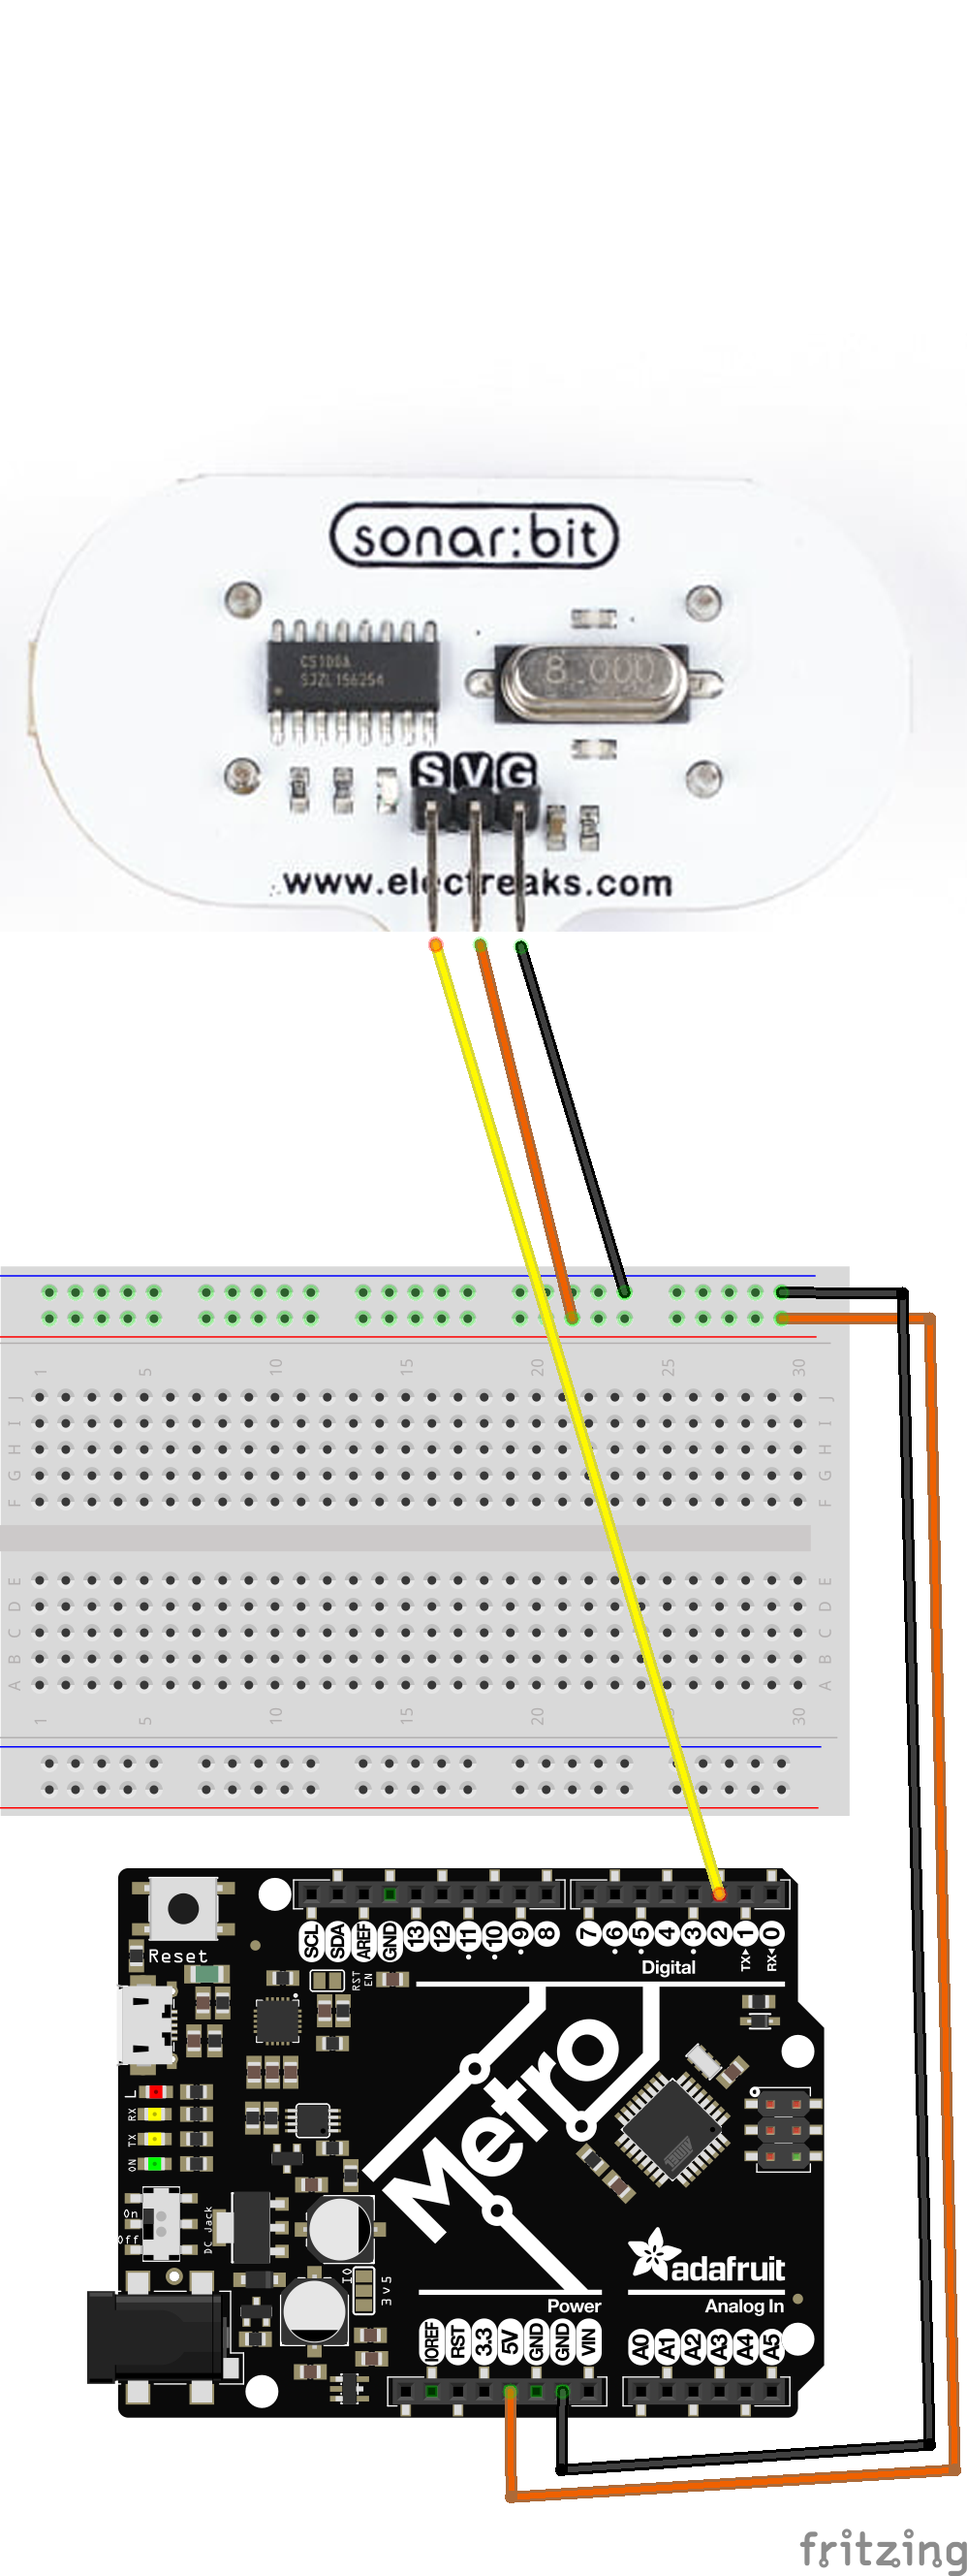
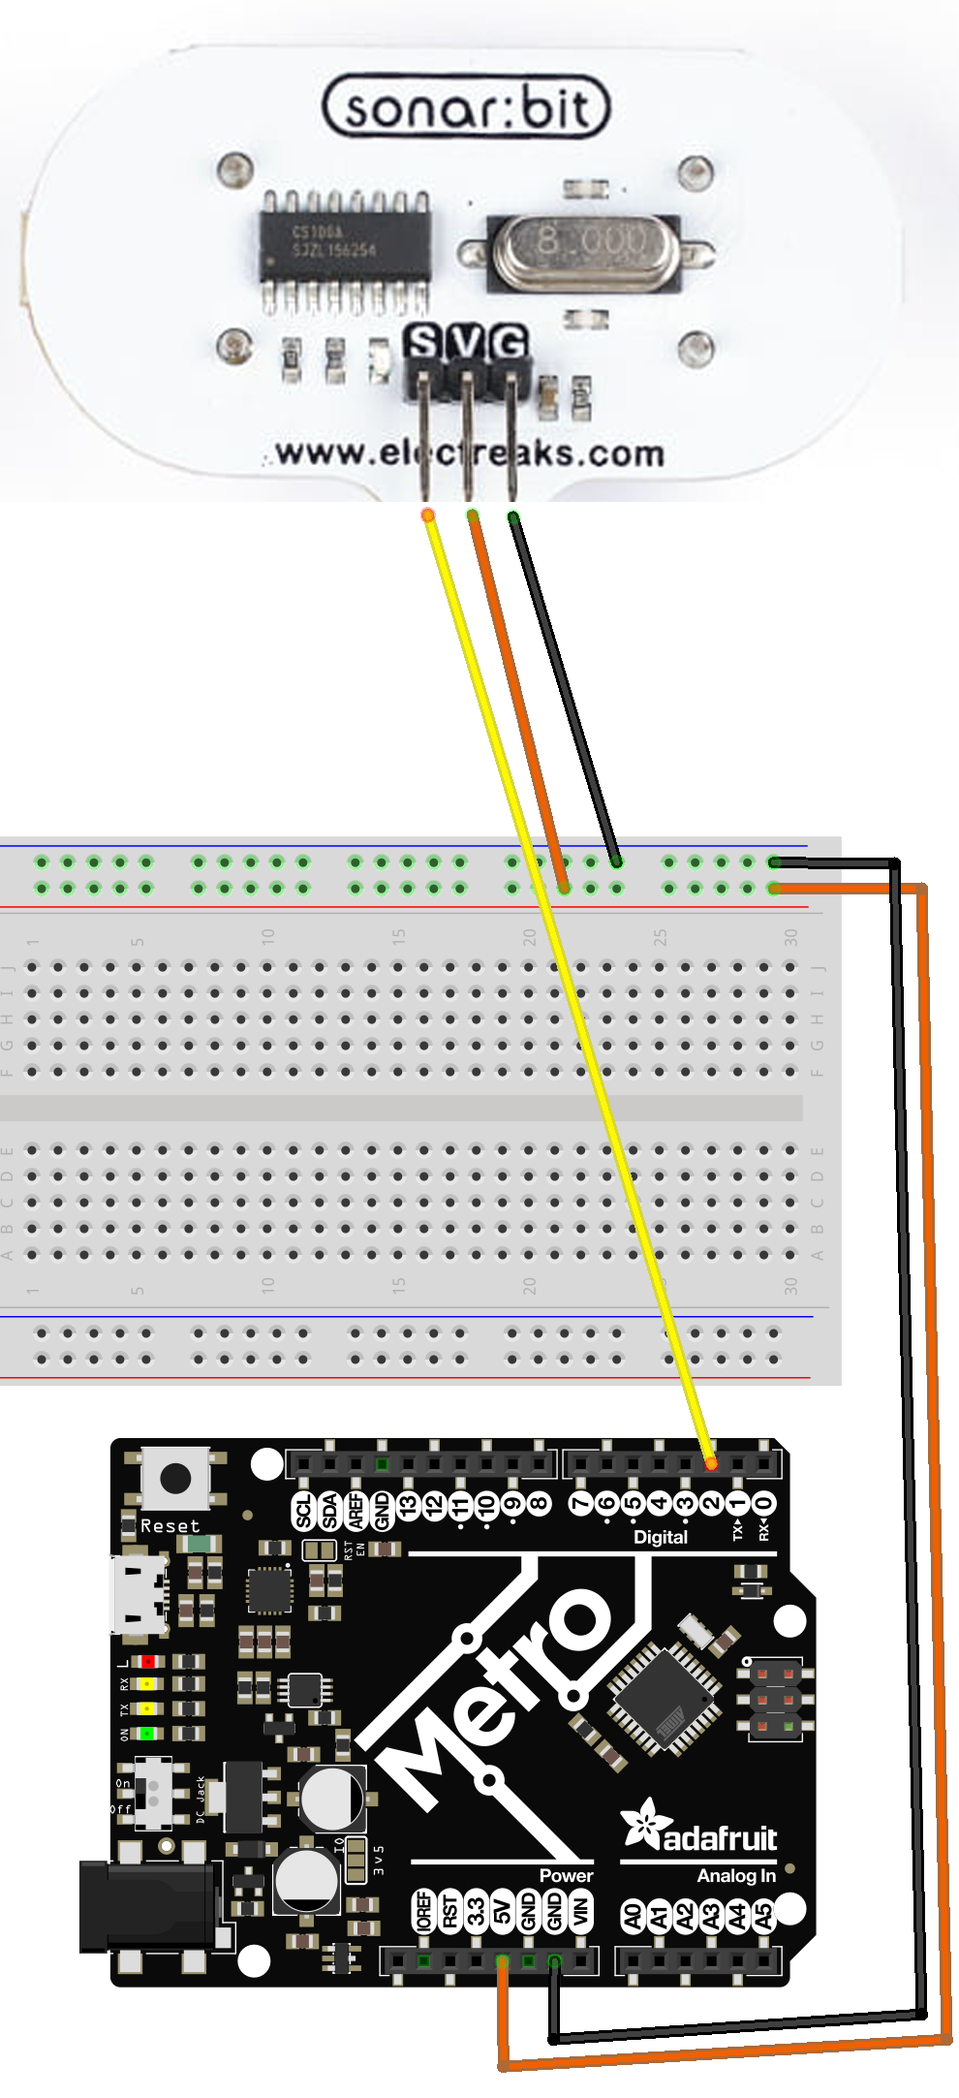
ping sensor png

diff --git a/learning_modules/physical_component_tutorials/ping_sensor/README.md b/learning_modules/physical_component_tutorials/ping_sensor/README.md
@@ -32,6 +32,15 @@ When an object is placed 3 cm from the sensor (within the blind zone), the ultra
 * It might not detect the returning echo at all, thus resulting in no reading or a maximum range reading.
 * It can also interpret multiple reflections as the main echo, showing an incorrect value.
 
+## Wiring
+An Ultrasonic Ping sensor has three key wires:
+
+* Signal: The wire responsible for sending and receiving ultrasonic signals.
+* Power: Provide 5V OR 3.3V power to the sensor.
+* Ground: Provide a ground back to your microcontroller.
+
+![ping_wiring](ping_sensor_wiring.png)
+
 # Program Code
 Start by copying the [sonarbit.py](sonarbit_example.py) code above onto your code.py file on your Microcontroller. 
 
